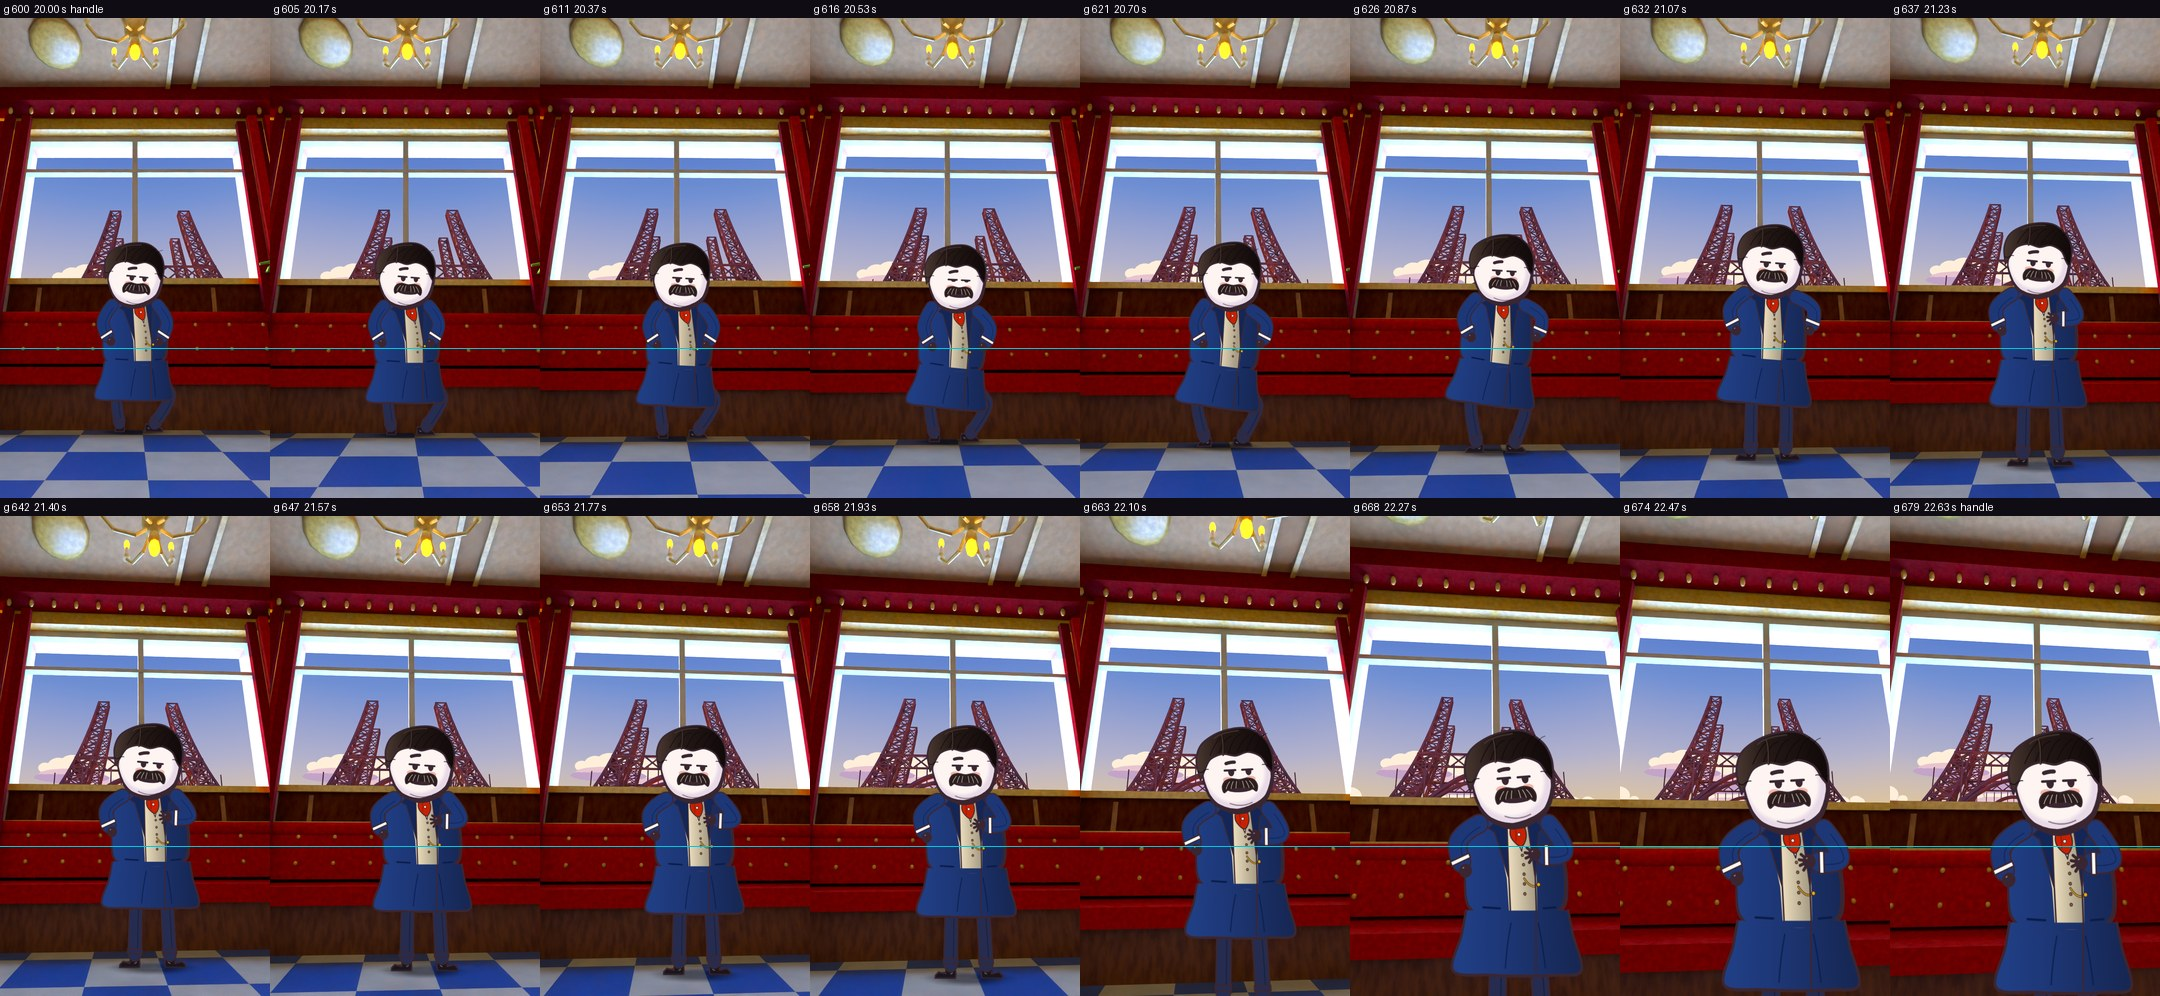
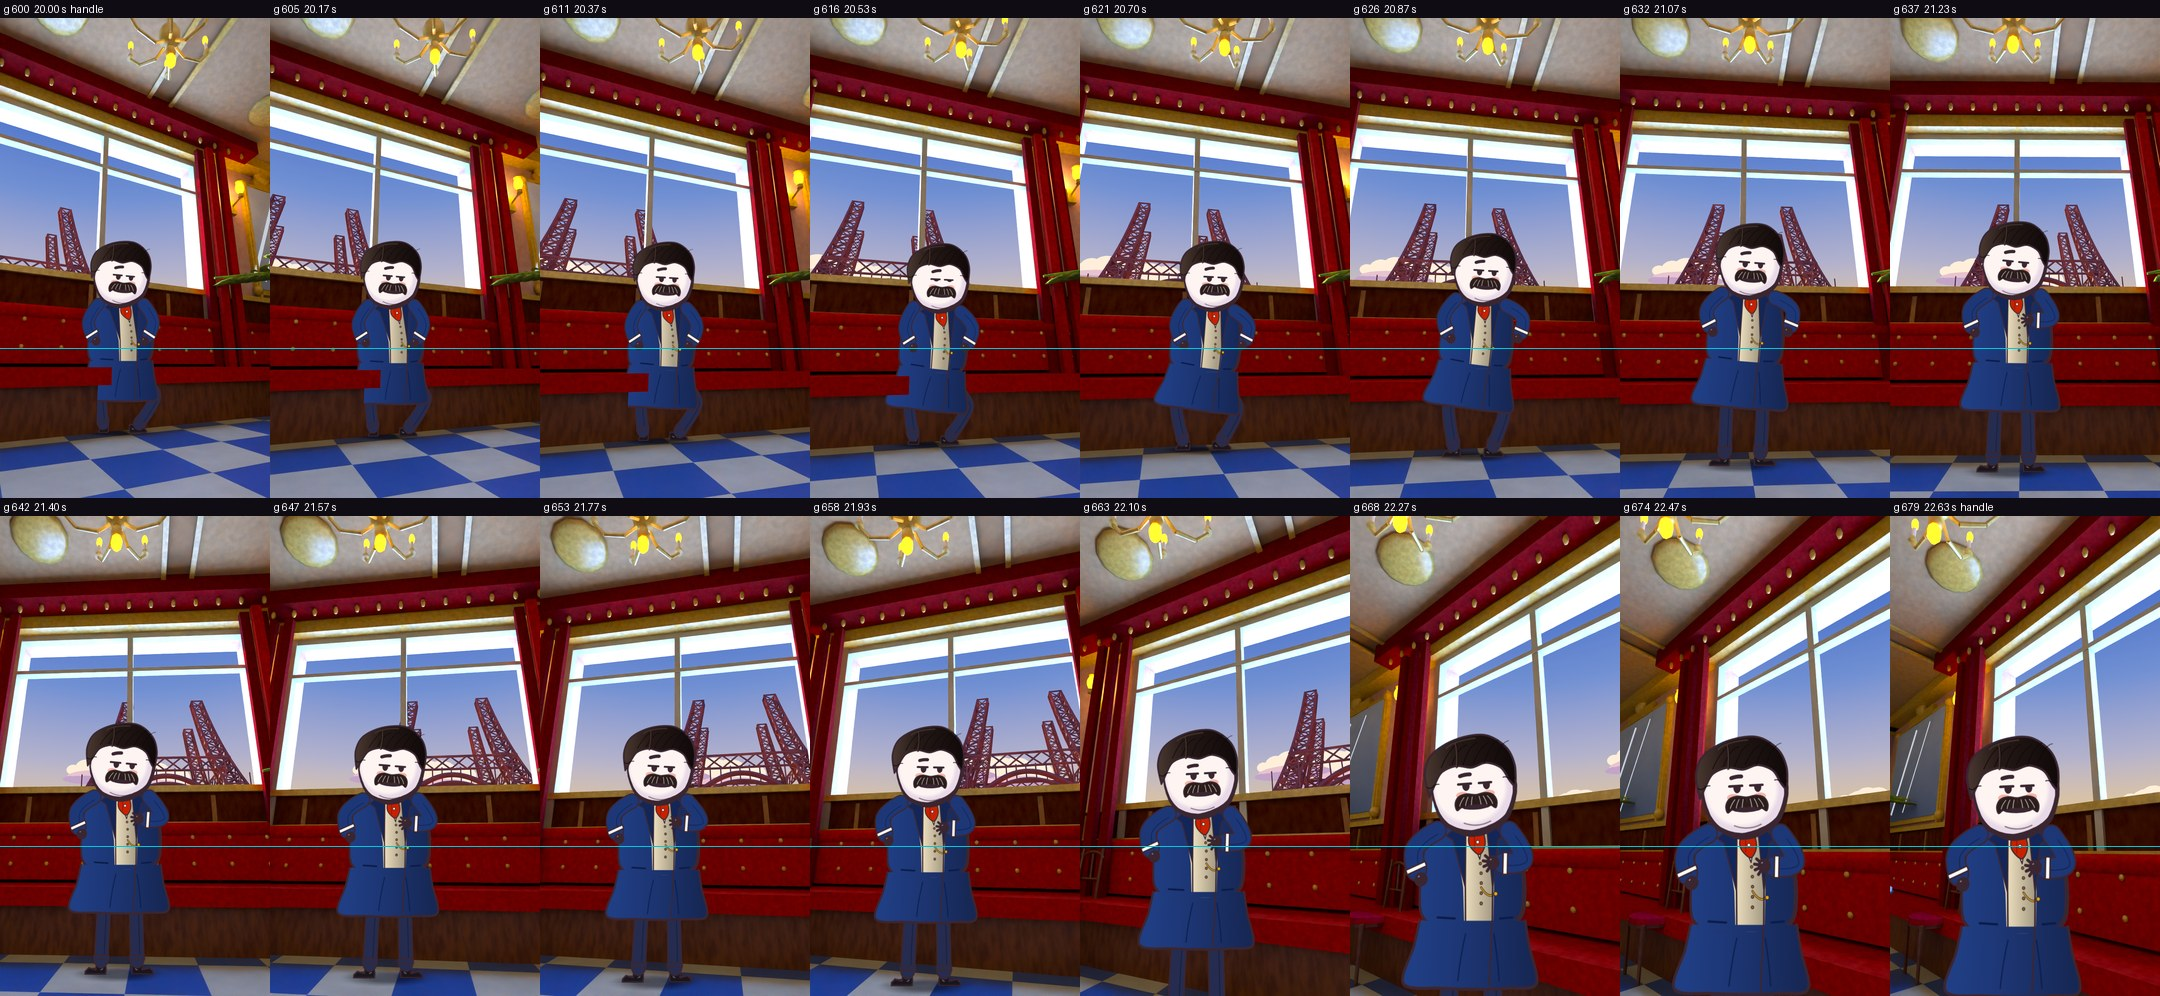
Film 20 team7: s09 delivered (Maupassant rises)
Claude-Session: https://claude.ai/code/session_017iwyCuDik3vbdfHWshYiW4

diff --git a/film/v3/film20/s09/QA.md b/film/v3/film20/s09/QA.md
@@ -1,0 +1,7 @@
+# s09 QA: film 20, shot 9 (CAFE cafe_low, DAY, view stub): Maupassant rises
+Delivered: take.mkv g 600..679 (80 frames; shot g 604..675, 4-frame handles each side, cut in / cut out), 720x1280, 8 spp, 22.58 s/frame wall (43.88 cpu).
+Beat: seated-crouch -> rises (legs crouch 0.6 -> 0, step forward, lean) g 612-640, two cravat tugs g 640-658, chin up smug g 654-668; snap push+orbit on "ก็ประกาศลั่น" g 657-670; crane up + orbit all shot. Mouth held flat the whole shot (quote starts g 682).
+Numbers: head 152-230 px wide, centre y 658-740, lowest head bottom y 855 (< 880); no head > 35 % of frame height.
+qa_stats: saturation 0.556, luma 96.5, in-shot motion median 5.04 / p90 10.02. Own frame-diff (deliver.py): median 4.41 / p90 10.36 (target 4 / 12: p90 slightly under; the snap is limited by the head band).
+qa_auto: PASS (see QA_AUTO.md). Checked contact sheet / phone sheet at 6 fps.
+Deviations: there is no seated Maupassant puppet on a banquette: he starts in a crouch with the banquette behind him (reads as perched on its edge, feet on the tiles with a contact decal) and straightens. Floor share ~20-25 % in the first 20 frames. p90 10.0 < 12.
